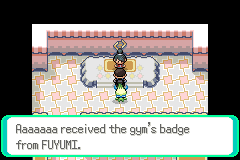
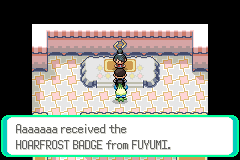
Build the Shimotsuki round 3-4 decisions
- A white-out before Shimotsuki brings him back to the Kashiwagi house,
  where her husband heals the team (HEAL_LOCATION_HAMAKAZE, set when he
  leaves the lab and whenever he enters the house; small engine edits
  marked Eien in heal_location.c and field_screen_effect.c). Before this
  he landed in vanilla Petalburg.
- Kaede's shrine gets its own day/night wild tables (Eien Poochyena and
  Duskull, Lv 9-12), so Poochyena can evolve by battling there.
- The Hoarfrost Badge in Fuyumi's badge text.
- New trainer classes ICE FISHER and SHOVELER for the gym trainers
  ("SNOW SHOVELER" is over the 12-letter class name limit).
- His line at the lake matches its open middle.
- Docs promoted from the brainstorm; screenshots in design/art/shimotsuki/.

Claude-Session: https://claude.ai/code/session_01KEfQ3687BBFMv8bczkVuAH

Changed region(s): [[0.0583, 0.75, 0.7875, 0.9375]]

diff --git a/src/heal_location.c b/src/heal_location.c
@@ -71,10 +71,17 @@ bool32 IsLastHealLocationPlayerHouse()
         || IsLastHealLocation(HEAL_LOCATION_LITTLEROOT_TOWN_MAYS_HOUSE_2F)
         || IsLastHealLocation(HEAL_LOCATION_LITTLEROOT_TOWN_BRENDANS_HOUSE)
         || IsLastHealLocation(HEAL_LOCATION_LITTLEROOT_TOWN_BRENDANS_HOUSE_2F)
-        || IsLastHealLocation(HEAL_LOCATION_PALLET_TOWN))
+        || IsLastHealLocation(HEAL_LOCATION_PALLET_TOWN)
+        || IsLastHealLocation(HEAL_LOCATION_HAMAKAZE)) // Eien
         return TRUE;
 
     return FALSE;
+}
+
+// Eien: the Kashiwagi house, his home before the first Pokémon Center (design/locations/hamakaze.md)
+bool32 IsLastHealLocationEienHome(void)
+{
+    return IsLastHealLocation(HEAL_LOCATION_HAMAKAZE);
 }
 
 u32 GetHealNpcLocalId(u32 healLocationId)

diff --git a/src/field_screen_effect.c b/src/field_screen_effect.c
@@ -1463,7 +1463,11 @@ static void Task_RushInjuredPokemonToCenter(u8 taskId)
         if (WaitForWeatherFadeIn() == TRUE)
         {
             DestroyTask(taskId);
-            if (gTasks[taskId].tIsPlayerHouse)
+            if (IsLastHealLocationEienHome()) // Eien: Kashiwagi's husband heals him at their house
+            {
+                ScriptContext_SetupScript(EventScript_AfterWhiteOutKashiwagiHeal);
+            }
+            else if (gTasks[taskId].tIsPlayerHouse)
             {
                 if (IS_FRLG)
                     StringCopy(gStringVar1, COMPOUND_STRING("PROF. OAK"));

diff --git a/src/battle_main.c b/src/battle_main.c
@@ -417,6 +417,9 @@ const struct TrainerClass gTrainerClasses[TRAINER_CLASS_COUNT] =
     [TRAINER_CLASS_RUIN_MANIAC_FRLG] =     { _("RUIN MANIAC"), 12 },
     [TRAINER_CLASS_LADY_FRLG] =            { _("LADY"), 50 },
     [TRAINER_CLASS_PAINTER_FRLG] =         { _("PAINTER"), 4 },
+    // Eien
+    [TRAINER_CLASS_ICE_FISHER] =           { _("ICE FISHER"), 10 },
+    [TRAINER_CLASS_SHOVELER] =             { _("SHOVELER"), 8 },
 };
 
 static void (*const sTurnActionsFuncsTable[])(void) =

diff --git a/include/event_scripts.h b/include/event_scripts.h
@@ -648,6 +648,7 @@ extern const u8 EventScript_SelectWithoutRegisteredItem[];
 // overworld
 extern const u8 EventScript_WhiteOut[];
 extern const u8 EventScript_AfterWhiteOutMomHeal[];
+extern const u8 EventScript_AfterWhiteOutKashiwagiHeal[]; // Eien
 extern const u8 EventScript_AfterWhiteOutHeal[];
 extern const u8 EventScript_AfterWhiteOutHeal_Frlg[];
 extern const u8 EventScript_AfterWhiteOutHealMsgPreFirstBoss[];

diff --git a/include/heal_location.h b/include/heal_location.h
@@ -14,6 +14,7 @@ u32 GetHealLocationIndexByWarpData(struct WarpData *warp);
 const struct HealLocation *GetHealLocationByMap(u16 mapGroup, u16 mapNum);
 const struct HealLocation *GetHealLocation(u32 index);
 bool32 IsLastHealLocationPlayerHouse();
+bool32 IsLastHealLocationEienHome(void); // Eien
 void SetWhiteoutRespawnWarpAndHealerNPC(struct WarpData * warp);
 u32 GetHealNpcLocalId(u32 healLocationId);
 

diff --git a/include/constants/trainers.h b/include/constants/trainers.h
@@ -525,6 +525,9 @@ enum TrainerClassID
     TRAINER_CLASS_RUIN_MANIAC_FRLG,
     TRAINER_CLASS_LADY_FRLG,
     TRAINER_CLASS_PAINTER_FRLG,
+    // Eien: Shimotsuki's gym trainers, locals at their jobs (design/locations/shimotsuki.md)
+    TRAINER_CLASS_ICE_FISHER,
+    TRAINER_CLASS_SHOVELER,
 
     TRAINER_CLASS_COUNT,
 };

diff --git a/design/locations/shimotsuki.md b/design/locations/shimotsuki.md
@@ -30,7 +30,8 @@ Act 1 beats 5-6 in [story-outline.md](../story-outline.md).
 1. **Akira shows the gym:** Akira waits at the south entrance. He walks him to the gym door
    and points out the Pokémon Center on the way. This sets `STORY_SHIMOTSUKI`; the gym is shut
    until then (the scene is unavoidable on entering).
-2. **Gym 1:** two gym trainers, a gym guide, then Fuyumi. Winning gives the badge and TM07 Hail
+2. **Gym 1:** two gym trainers, a gym guide, then Fuyumi. Winning gives the Hoarfrost Badge and
+   TM07 Hail
    and sets `STORY_BADGE_1`.
 3. **Akira's practice battle** (his step 1, optional): at the town's north edge on his way out,
    only if you talk to him.
@@ -53,14 +54,17 @@ Act 1 beats 5-6 in [story-outline.md](../story-outline.md).
 
 ## Trainers
 
-Names are placeholders (`TODO(design)`), and so are the gym trainers' classes. Both use the
-snow trainer overworld sprite (`OBJ_EVENT_GFX_EIEN_SNOW_TRAINER`).
+The gym trainers are locals at their jobs, like Route 1's: two new trainer classes, ICE FISHER
+and SHOVELER (`TRAINER_CLASS_ICE_FISHER` / `_SHOVELER` in `include/constants/trainers.h`;
+"SNOW SHOVELER" didn't fit the 12-letter class name). Their names are placeholders
+(`TODO(design)`). Both use the snow trainer overworld sprite (`OBJ_EVENT_GFX_EIEN_SNOW_TRAINER`);
+their battle pics reuse the Fisherman and Picnicker for now.
 
 | Trainer | Class | Team (levels) | Notes |
 | --- | --- | --- | --- |
-| Gym trainer 1 (TOMO) | Camper (placeholder) | Snover Lv 9 | A short line about the cold |
-| Gym trainer 2 (SAYA) | Picnicker (placeholder) | Snorunt Lv 10 | A short line about the cold |
-| Fuyumi | Leader | Spheal Lv 13 (Water Gun, Powder Snow, Defense Curl, Rollout), Bergmite Lv 14 (Rock Tomb, Powder Snow, Curse, Harden) | Stern veteran. Water Gun covers Eien Torchic; Rock Tomb covers Eien Torchic and Froakie; Eien Poochyena resists Rock Tomb. Badge and TM07 Hail |
+| Gym trainer 1 (TOMO) | Ice Fisher | Snover Lv 9 | A short line about the cold |
+| Gym trainer 2 (SAYA) | Shoveler | Snorunt Lv 10 | A short line about the cold |
+| Fuyumi | Leader | Spheal Lv 13 (Water Gun, Powder Snow, Defense Curl, Rollout), Bergmite Lv 14 (Rock Tomb, Powder Snow, Curse, Harden) | Stern veteran. Water Gun covers Eien Torchic; Rock Tomb covers Eien Torchic and Froakie; Eien Poochyena resists Rock Tomb. The Hoarfrost Badge and TM07 Hail |
 | Akira (practice) | Rival | His starter Lv 14 (the one strong against the player's), Starly Lv 11 | Optional; one trainer entry per starter he took |
 
 Trainer ids: `TRAINER_EIEN_FUYUMI` (863) and `TRAINER_EIEN_AKIRA_PRACTICE_FROAKIE` (862) take the
@@ -96,7 +100,8 @@ start of the next route later (`TODO(design)`: its name and the rest of the rout
   `STORY_MET_NAMI`, then a short end-of-milestone message. Music placeholder: a quiet track.
   Her lines are drafts (`TODO(design)`).
 - The fading's first appearance; not explained.
-- The lake is plain water for now (`TODO(art)`: a frozen look). Before gym 1 the path is open
+- The lake is frozen at the edges with open dark water in the middle, which Lapras swims. On
+  the map it's plain water for now (`TODO(art)`: an ice-rim tile). Before gym 1 the path is open
   but nothing happens there.
 
 ## Maps
@@ -116,13 +121,22 @@ All placeholders, hand-made; redraw them in Porymap any time.
   (`HEAL_LOCATION_SHIMOTSUKI`, outside its door); it has no 2F, so its stairs go nowhere.
 - **Kaede's shrine:** shares Route 1's shrine layout (`LAYOUT_EIEN_ROUTE1_SHRINE`); its west
   arrows lead back to the town's east edge. Kaede sweeps (walking in place) on the path; her
-  grandmother stands by the grass. Its tablet is a placeholder sign (`TODO(design)`: its text and
-  its bit in `QUEST_KAEDE_TABLETS`). Its grass patch has no encounter table, so leveling an
-  Eien Poochyena here needs a Rare Candy (`TODO(design)`: give it its own wild table, or a
-  layout without grass).
+  grandmother stands by the grass. Its tablet stays "too worn to read" until Kaede reads it to
+  him in milestone 2; its text is about the stone dogs on aurora nights, setting up her step 2
+  (`TODO(design)`: the text itself, and its bit in `QUEST_KAEDE_TABLETS`).
 - **Lake path:** 24x22 (`data/layouts/EienRoute2/`, town tileset), connected below the town.
   The lake fills the middle-west (rows 6-13); the shelter (a house, not enterable) on the far
   shore; a path round the east side back to the town. Nami's trigger is row 16.
+
+## Wild Pokémon
+
+Kaede's shrine grass, Lv 9-12, so an Eien Poochyena can reach Lv 18 by battling there. Rates are
+the slot sums in `src/data/wild_encounters.json` (`gShimotsuki_KaedeShrine`, `_Night`); morning and
+evening use the day table.
+
+| Area | Day | Night |
+| --- | --- | --- |
+| Kaede's shrine grass | Eien Poochyena 90%, Duskull 10% | Eien Poochyena 60%, Duskull 40% |
 
 The Mart's stock is a placeholder (Poké Ball, Potion, Antidote, Paralyze Heal, Awakening,
 Ice Heal, Escape Rope; `TODO(design)`).
@@ -143,4 +157,9 @@ foot); shots in `design/art/shimotsuki/`.
   `STORY_BADGE_1` in the harness); talking starts the battle.
 - `13_lake_path.png` to `17_milestone_end.png`: the lake path, Celebi flickering out, Nami on
   Lapras ("It's cold. Get on."), the far shore where Celebi comes back, and the end message.
+- After rounds 3-4: `18_ice_fisher.png` (the new class), `19_shrine_wild.png` and
+  `20_shrine_thin_place.png` (a wild Eien Poochyena in Kaede's shrine grass, with the thin-place
+  message), `21_lake_line.png` (his line at the lake), `22_whiteout_home.png` and
+  `23_husband_heals.png` (a white-out before Shimotsuki: back home, healed). `6_badge.png` now
+  shows the Hoarfrost Badge.
 - `layout.png`, `lake_path_layout.png`: the layouts.

diff --git a/design/whats-left.md b/design/whats-left.md
@@ -15,12 +15,12 @@ milestone (prologue through gym 1):
 | Prologue bedroom | [prologue-bedroom.md](locations/prologue-bedroom.md) | The accident, Palkia |
 | Hamakaze (+ Kashiwagi house, lab) | [hamakaze.md](locations/hamakaze.md) | **Built** on a placeholder layout (redraw it in Porymap any time), with the research and Haru's map quest. Still to do: a new game starting here (or in the prologue) |
 | Route 1 + its shrine | [route-1.md](locations/route-1.md) | **Built** on placeholder layouts: trainers, day/night wild tables, items, Haru's notes, the tablet, the warp north to Shimotsuki. Still to do: real music |
-| Shimotsuki (+ gym, Pokémon Center, Mart), Kaede's shrine, the lake path | [shimotsuki.md](locations/shimotsuki.md) | **Built** on placeholder layouts: Akira shows the gym, gym 1 with badge and TM07, Akira's practice (`QUEST_AKIRA_PRACTICE`), Kaede's cameo and her grandmother, Nami's meeting and the end-of-milestone message. Still to do: a wild table (or no grass) at Kaede's shrine, its tablet text, the badge name, real music, a frozen-lake look |
+| Shimotsuki (+ gym, Pokémon Center, Mart), Kaede's shrine, the lake path | [shimotsuki.md](locations/shimotsuki.md) | **Built** on placeholder layouts: Akira shows the gym, gym 1 with badge and TM07, Akira's practice (`QUEST_AKIRA_PRACTICE`), Kaede's cameo and her grandmother, Nami's meeting and the end-of-milestone message. Since then: the Hoarfrost Badge, Kaede's shrine wild table (Eien Poochyena, Duskull), the ICE FISHER and SHOVELER classes. Still to do: the tablet text, the gym trainers' names, real music, an ice-rim tile for the lake |
 
 Open gaps found while building Shimotsuki:
 
-- **White-out before the first Pokémon Center** goes to vanilla Petalburg: Hamakaze and Route 1
-  have no respawn point (`TODO(design)`: where he wakes; the Kashiwagi house?).
+- **White-out before the first Pokémon Center:** fixed; he wakes at the Kashiwagi house and her
+  husband heals the team (`HEAL_LOCATION_HAMAKAZE`).
 - **Trainer slots:** none spare now. Further trainers reuse vanilla Hoenn slots Eien never
   reaches, aliased in `include/constants/opponents.h` (four so far).
 

diff --git a/design/locations/hamakaze.md b/design/locations/hamakaze.md
@@ -28,7 +28,7 @@ Act 1 beats 1-3 in [story-outline.md](../story-outline.md).
 | Fisherman | beach (4,15) | always | Flavor line |
 | Villager | town (9,11), wanders | always | Points to the Kashiwagi house, later the lab |
 | Professor Kashiwagi | lab | | Offers the three starters |
-| Kashiwagi's husband | house | | Runs the household that takes him in. `TODO(design)`: name |
+| Kashiwagi's husband | house | | Runs the household that takes him in. Heals the team after a white-out: "Back again? Sit. I'll see to them." `TODO(design)`: name |
 | Haru Kashiwagi | house / lab | | First friend; takes the third starter |
 | Akira | lab | | Takes the starter strong against the player's; battles right after |
 | Journal | - | taken in | Opens from the start menu (in place of the PokéNav). First page: "My name is (player). I'm from another world. If I start forgetting, read this." |
@@ -71,6 +71,15 @@ here that the docs didn't settle, all easy to change:
 | --- | --- | --- |
 | Journal (start menu entry, `FLAG_RECEIVED_JOURNAL`) | given | no |
 | Poké Ball ×5 | given by the professor with the research | no |
+
+## White-out
+
+Until he reaches Shimotsuki's Pokémon Center, a white-out brings him back to the Kashiwagi house,
+facing her husband, who heals the team (`HEAL_LOCATION_HAMAKAZE`; respawn at (1,6) in the house).
+The respawn is set when he leaves the lab with his starter and whenever he enters the house; the
+Pokémon Center sets it to Shimotsuki from then on. The black-screen text is the engine's
+"scurried back home" one. The engine side is a small edit marked `// Eien` in
+`src/heal_location.c` and `src/field_screen_effect.c`.
 
 ## Flags and vars
 

diff --git a/design/brainstorm-shimotsuki.md b/design/brainstorm-shimotsuki.md
@@ -71,13 +71,17 @@ the location doc when settled; this file stays as the record.
 - **Healer (r4 2a):** Kashiwagi's husband: "Back again? Sit. I'll see to them." (draft line,
   warm and practical).
 - **Gym trainers (r4 3a):** classes ICE FISHER (Snover Lv 9) and SNOW SHOVELER (Snorunt
-  Lv 10); names TOMO and SAYA stay placeholders.
+  Lv 10); names TOMO and SAYA stay placeholders. Built as SHOVELER: the engine's class names
+  hold 12 letters and "SNOW SHOVELER" is 13.
+- **Shrine levels (default when building):** Lv 9-12; day Eien Poochyena 90%, Duskull 10%;
+  night 60% / 40%.
 
 ## Leaning
 
 ## Open questions
 
-Still open after round 4: the tablet's text (the stone dogs on aurora nights), the gym
+Rounds 3-4 promoted into `locations/shimotsuki.md`, `locations/hamakaze.md` and
+`progression.md`. Still open after round 4: the tablet's text (the stone dogs on aurora nights), the gym
 trainers' real names, the husband's name, the ice-rim art, the badge icon, music.
 
 Defaults proposed, not asked (change any): the Mart keeps its placeholder stock (Poké Ball,

diff --git a/design/progression.md b/design/progression.md
@@ -9,7 +9,7 @@ gyms 5-8 → Pokémon League (Minato's plan interrupts the Elite Four) → door 
 
 | Badge | Leader | Unlocks | Gate the player passes after |
 | --- | --- | --- | --- |
-| 1 | Fuyumi (Ice), Shimotsuki | `TODO(design)` (badge name; Fuyumi also gives TM07 Hail) | `TODO(design)` |
+| 1 | Fuyumi (Ice), Shimotsuki | Hoarfrost Badge; Fuyumi also gives TM07 Hail. `TODO(design)`: what it unlocks | `TODO(design)` |
 | 2-8 | `TODO(design)` | | |
 
 Every gate is enforced by a flag or var; list it in the location doc that checks it.
